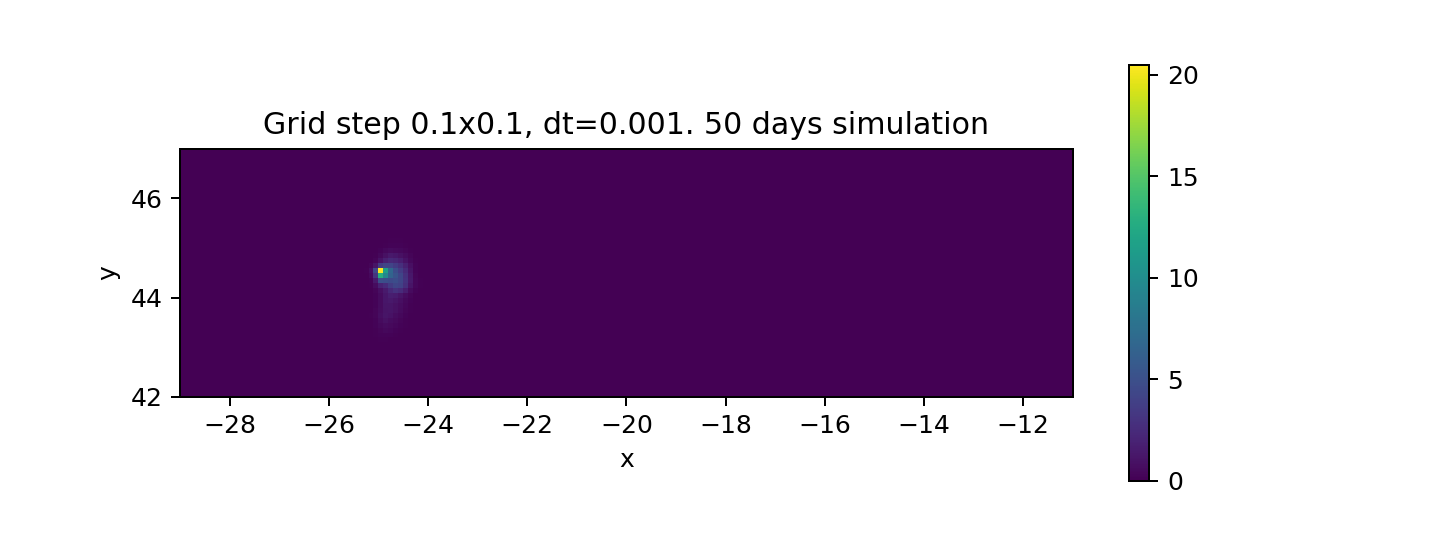
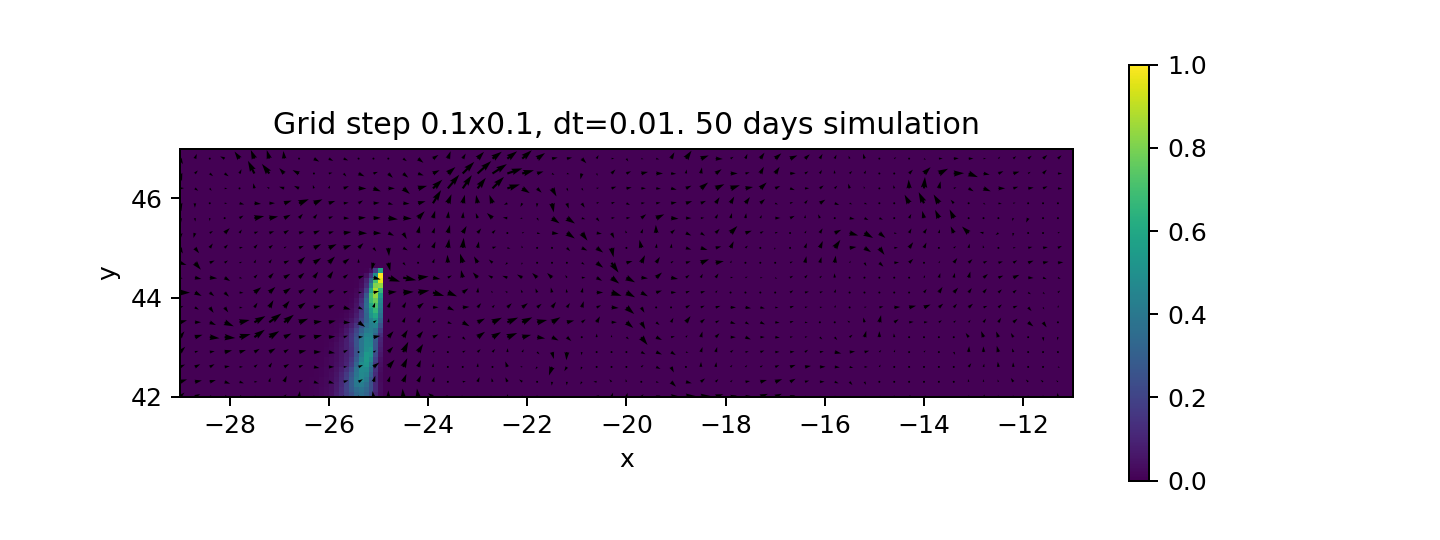
Work on VF, Quiver

diff --git a/scripts/PDE_model/library/structures.py b/scripts/PDE_model/library/structures.py
@@ -115,12 +115,8 @@ class Grid:
         u_data = dataset.variables['water_u'][timeIndex, 0, lats_idx, lons_idx]
         v_data = dataset.variables['water_v'][timeIndex, 0, lats_idx, lons_idx]
         
-        print(np.shape(u_data))
         self.vectorfield_x = np.zeros((self.y_num, self.x_num))
         self.vectorfield_y = np.zeros((self.y_num, self.x_num))
-        
-        print("Carth length", len(self.lon_vals), len(self.lat_vals))
-        print("Idx length", len(lons_idx), len(lats_idx))
         
         for i in range(self.x_num):
             for j in range(self.y_num):
@@ -128,18 +124,15 @@ class Grid:
                 idx_data_lon = np.searchsorted(self.lon_vals, pos_x)
                 idx_data_lat = np.searchsorted(self.lat_vals, pos_y)
                 
-                print(pos_x, pos_y, self.cti(pos_x, pos_y), i,j, idx_data_lon, idx_data_lat)
-
                 x_val = u_data[idx_data_lat, idx_data_lon]
                 y_val = v_data[idx_data_lat, idx_data_lon]
                 
                 #Convert from mm/s to m/day
-                self.vectorfield_x[j, i] = x_val * 86.4 /1000
-                self.vectorfield_y[j, i] = y_val * 86.4 /1000
+                self.vectorfield_x[j, i] = x_val * 86.4 / 1000
+                self.vectorfield_y[j, i] = y_val * 86.4 / 1000
 
         
-        # self.vectorfield_x = 50*(np.random.rand(self.y_num,self.x_num)-0.5)
-        # self.vectorfield_y = 50*(np.random.rand(self.y_num,self.x_num)-0.5)
+        return self.vectorfield_x, self.vectorfield_y
 
 
         
@@ -180,8 +173,8 @@ class Grid:
             A_y_down = self.advectiveDownwindOperator_y
             
             # The order of the vectorfields here is INTENTIONALLY weird to permit the function setVectorField to work intuitively: numpy axis bs.
-            au_x = np.multiply(self.vectorfield_y, self.u_old)
-            au_y = np.multiply(-self.vectorfield_x, self.u_old)
+            au_x = np.multiply(self.vectorfield_x, self.u_old)
+            au_y = np.multiply(self.vectorfield_y, self.u_old)
             
             LHS_1_adv = np.matmul(np.where(au_x>=0, au_x, 0), A_x_up)
             LHS_2_adv = np.matmul(np.where(au_x<0, au_x, 0), A_x_down)

diff --git a/scripts/PDE_model/FiniteVolumeMethod.py b/scripts/PDE_model/FiniteVolumeMethod.py
@@ -16,7 +16,7 @@ x_range = [-29, -11]
 y_range = [42, 47]
 dx = 0.1 # dx =/= dy is supported. Some stepsizes will cause an idx-oo-bounds. add small perturbation to stepsize or choose differently. 
 dy = 0.1 # Ex: 0.01 breaks, 0.012 doesn't.
-dt = 0.001 # timestep between dataset swapping. scale: day.
+dt = 0.01 # timestep between dataset swapping. scale: day.
 
 
 ### Related to dataset time and VF
@@ -89,13 +89,17 @@ grid.setLonLatVals(dataset, lon_idx, lat_idx)
 N_steps_per_day = int(1/dt)
 start_time = time()
 
+
+vf_x, vf_y = grid.getVectorField(dataset, lon_idx, lat_idx, np.searchsorted(times, startTime) + startTimeIndex) #At the start of every 24 hours.
+
 for i in range(simLengthDays):
-    grid.addValue(grid.cti(-25, 44.5), 5)
+    grid.addValue(grid.cti(-25, 44.5), 1)
 
     simTime = startTime + i*timeResolution #Hours since 2000
     simTimeIndex = np.searchsorted(times, simTime) + startTimeIndex #To access dataset
     
-    grid.getVectorField(dataset, lon_idx, lat_idx, simTimeIndex) #At the start of every 24 hours.
+    #To plot a quiver later
+    # vf_x, vf_y = grid.getVectorField(dataset, lon_idx, lat_idx, simTimeIndex) #At the start of every 24 hours.
     
     for j in range(N_steps_per_day):
         grid.timeStep(diffusion=False, constantAdvection=True, VFAdvection=True)
@@ -113,6 +117,9 @@ matrix = grid.getMatrix()
 plt.figure(figsize=[8, 3], dpi=180)
 plt.title(f"Grid step {dx}x{dy}, dt={dt}. {simLengthDays} days simulation")
 plt.imshow(matrix, origin='lower', extent=[-29, -11, 42, 47], aspect = 1, vmin=0, vmax=np.max(matrix))
+print(longitudes, latitudes, vf_x, vf_y)
+lon_grid, lat_grid = np.meshgrid(grid.x_s, grid.y_s)
+plt.quiver(lon_grid[::3, ::3], lat_grid[::3, ::3], vf_x[::3, ::3], vf_y[::3, ::3], scale=4, color='k')
 plt.colorbar()
 plt.xlabel('x')
 plt.ylabel('y')
@@ -120,12 +127,3 @@ plt.savefig('densityplot.png')
 plt.show()
 
 
-
-
-
-    
-
-
-
-
-    
